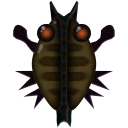
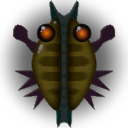
filer

diff --git a/src/files.h b/src/files.h
@@ -15,11 +15,12 @@
 class Files
 {
 public:
-  sf::Sprite simple_blob, tiles_sprite;
+  sf::Sprite simple_blob;
+  sf::Texture error, blob, concrete, tiles;
+
 private:
   std::vector<std::string> first_names, last_names;
   sf::Image error_ram, blob_ram, concrete_ram, tiles_ram;
-  sf::Texture error, blob, concrete, tiles;
   
   /*
    * sf::Image: RAM - muligheter for å redigere
@@ -41,6 +42,7 @@ public:
       blob = error;
     }
     blob.loadFromImage(blob_ram);
+    add_color(blob_ram, {10, 10, 10}, blob);
     simple_blob.setTexture(blob);
     simple_blob.setScale({0.2f, 0.2f});
     simple_blob.setOrigin({64, 64});
@@ -51,6 +53,8 @@ public:
       concrete = error;
     }
     concrete.loadFromImage(concrete_ram);
+    concrete.setRepeated(true);
+    sub_color(concrete_ram, concrete, 0, 0, 0, 160);
     
     if (!tiles_ram.loadFromFile("res/tiles.png"))
     {
@@ -59,8 +63,7 @@ public:
     }
     tiles.loadFromImage(tiles_ram);
     tiles.setRepeated(true);
-    tiles_sprite.setTexture(tiles);
-//    tiles_sprite.setTextureRect({-400, -400, 400, 400});
+    sub_color(tiles_ram, tiles, 84, 88, 80);
     
     // tekst
     ifstream file("res/names.txt");
@@ -94,6 +97,36 @@ public:
         first_names[(int)Ask::random(-0.49, first_names.size() - 0.01)] +
         " " +
         first_names[(int)Ask::random(-0.49, first_names.size() - 0.01)];
+  }
+  
+  static void add_color(sf::Image &image, sf::Color color, sf::Texture &texture)
+  {
+//    throw std::runtime_error("files::add_color: funksjon ikke skrevet enda\n");
+    for (int x = 0; x < image.getSize().x; x++)
+      for (int y = 0; y < image.getSize().y; y++)
+      {
+        auto temp_color = image.getPixel(x, y);
+        temp_color.r = 255 - color.r < temp_color.r ? 255 : temp_color.r + color.r;
+        temp_color.g = 255 - color.g < temp_color.g ? 255 : temp_color.g + color.g;
+        temp_color.b = 255 - color.b < temp_color.b ? 255 : temp_color.b + color.b;
+        image.setPixel(x, y, temp_color);
+      }
+    texture.update(image);
+  }
+  
+  static void sub_color(sf::Image &image, sf::Texture &texture, sf::Uint8 r, sf::Uint8 g, sf::Uint8 b, sf::Uint8 a = 0)
+  {
+    for (int x = 0; x < image.getSize().x; x++)
+      for (int y = 0; y < image.getSize().y; y++)
+      {
+        auto temp_color = image.getPixel(x, y);
+        temp_color.r = (temp_color.r - r) * (r <= temp_color.r);
+        temp_color.g = (temp_color.g - g) * (g <= temp_color.g);
+        temp_color.b = (temp_color.b - b) * (b <= temp_color.b);
+        temp_color.a = (temp_color.a - a) * (a <= temp_color.a);
+        image.setPixel(x, y, temp_color);
+      }
+    texture.update(image);
   }
 };
 

diff --git a/src/world.h b/src/world.h
@@ -16,20 +16,23 @@ class World
   
   // TODO quad trees for collision
 public:
-  World():bounds(0, 0, 400, 400)
-  {
-    point.setRadius(2);
-    point.setOrigin({point.getRadius(), point.getRadius()});
-    background.setFillColor(sf::Color(30, 30, 30));
-  }
-  
-public:
   std::vector<Blob> blobs;
   Ask::Physics::Tile bounds;
   float basically_zero = 0.005f;
   float friction_c = 0.2f, drag_c = 0.05f;
   sf::CircleShape point;
-  sf::RectangleShape background;
+  sf::RectangleShape background, overlay;
+
+public:
+  World():bounds(0, 0, 400, 400)
+  {
+    point.setRadius(2);
+    point.setOrigin({point.getRadius(), point.getRadius()});
+    background.setTexture(&files.tiles);
+    background.setTextureRect({0, 0, 1600, 1600});
+    overlay.setTexture(&files.concrete);
+    overlay.setTextureRect({0, 0, 2000, 2000});
+  }
   
 public:
   // flow
@@ -134,8 +137,8 @@ public:
   
   void render()
   {
-    window.draw(fit_to_bounds(files.tiles_sprite, bounds));
-//    window.draw(fit_to_bounds(background, bounds));
+    window.draw(fit_to_bounds(background, bounds));
+    window.draw(fit_to_bounds(overlay, bounds));
     for (Blob &blob : blobs)
       blob.render();
 //    window.draw(point);

diff --git a/src/global_def.h b/src/global_def.h
@@ -61,19 +61,17 @@ sf::Vector2f mouse()
   return window.mapPixelToCoords(mouse_window);
 }
 
-sf::Sprite &fit_to_bounds(sf::Sprite &fit_this, const Ask::Physics::Tile &to_this)
-{
-  fit_this.setOrigin(0, 0);
-  fit_this.setPosition(to_this.center.x - to_this.r_x, to_this.center.y - to_this.r_y);
-  fit_this.setScale(1, 1);
-  return fit_this;
-}
-
+//sf::Sprite &fit_to_bounds(sf::Sprite &fit_this, const Ask::Physics::Tile &to_this)
+//{
+//  fit_this.setOrigin(0, 0);
+//  fit_this.setPosition(to_this.center.x - to_this.r_x, to_this.center.y - to_this.r_y);
+//  fit_this.setScale(2, 1);
+//  return fit_this;
+//}
 
 /// sørger for at firkanten du tegner er hitboxen
 sf::RectangleShape &fit_to_bounds(sf::RectangleShape &fit_this, const Ask::Physics::Tile &to_this)
 {
-  // vet ikke om dette er oppdatert
   fit_this.setSize({(float)to_this.r_x * 2, (float)to_this.r_y * 2});
   fit_this.setOrigin({(float)to_this.r_x, (float)to_this.r_y});
   fit_this.setPosition({(float)to_this.center.x, (float)to_this.center.y});
